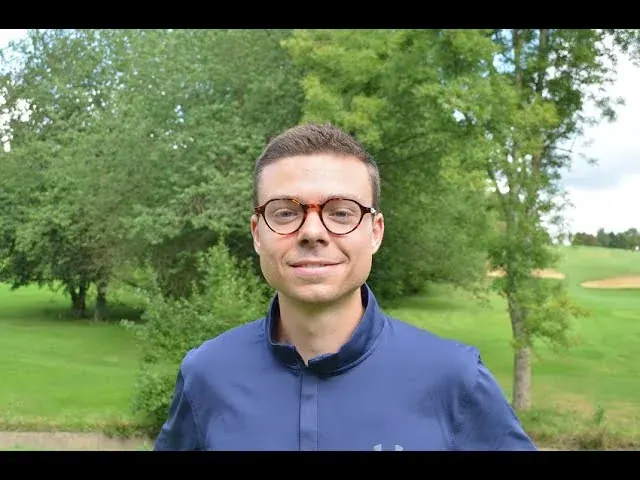
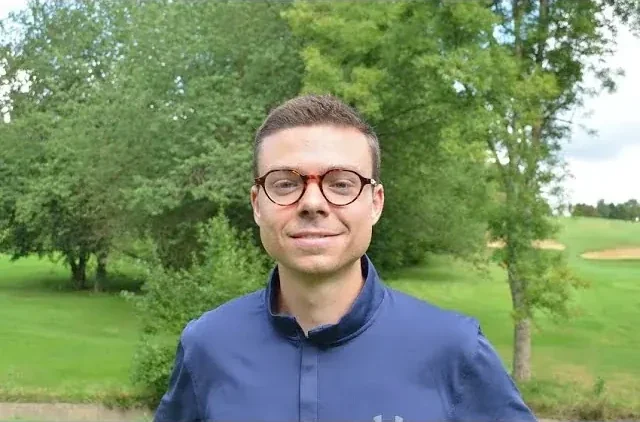
Foto van Lars bijsnijden en meer marge bovenaan de kaart
- host-1.webp: de zwarte balken (29 px boven en onder) zaten in het bestand zelf;
  bijgesneden van 640x480 naar 640x422. Gezicht blijft gecentreerd in zowel het
  vierkante (homepage) als het 3:4-kader (hostspagina).
- Kaart: asymmetrische fitBounds-marge (boven 110, onder 30) zodat de Nederlandse
  grensbanen net boven Belgie niet halfweg de rand afgesneden worden. Zoomniveau
  blijft 8 bij de vaste kaarthoogte van 500 px.

diff --git a/src/components/ratings/CoursesMap.tsx b/src/components/ratings/CoursesMap.tsx
@@ -375,7 +375,9 @@ export function CoursesMap({
         } else if (inBelgium.length >= 2) {
           const belgium = new window.google.maps.LatLngBounds();
           inBelgium.forEach(({ lat, lng }) => belgium.extend({ lat, lng }));
-          map.fitBounds(belgium, 60);
+          // Extra room at the top so the Dutch border courses just north of
+          // Belgium are not cut off by the map edge; the bottom needs less.
+          map.fitBounds(belgium, { top: 110, right: 60, bottom: 30, left: 60 });
         } else {
           map.fitBounds(bounds, 60);
         }
